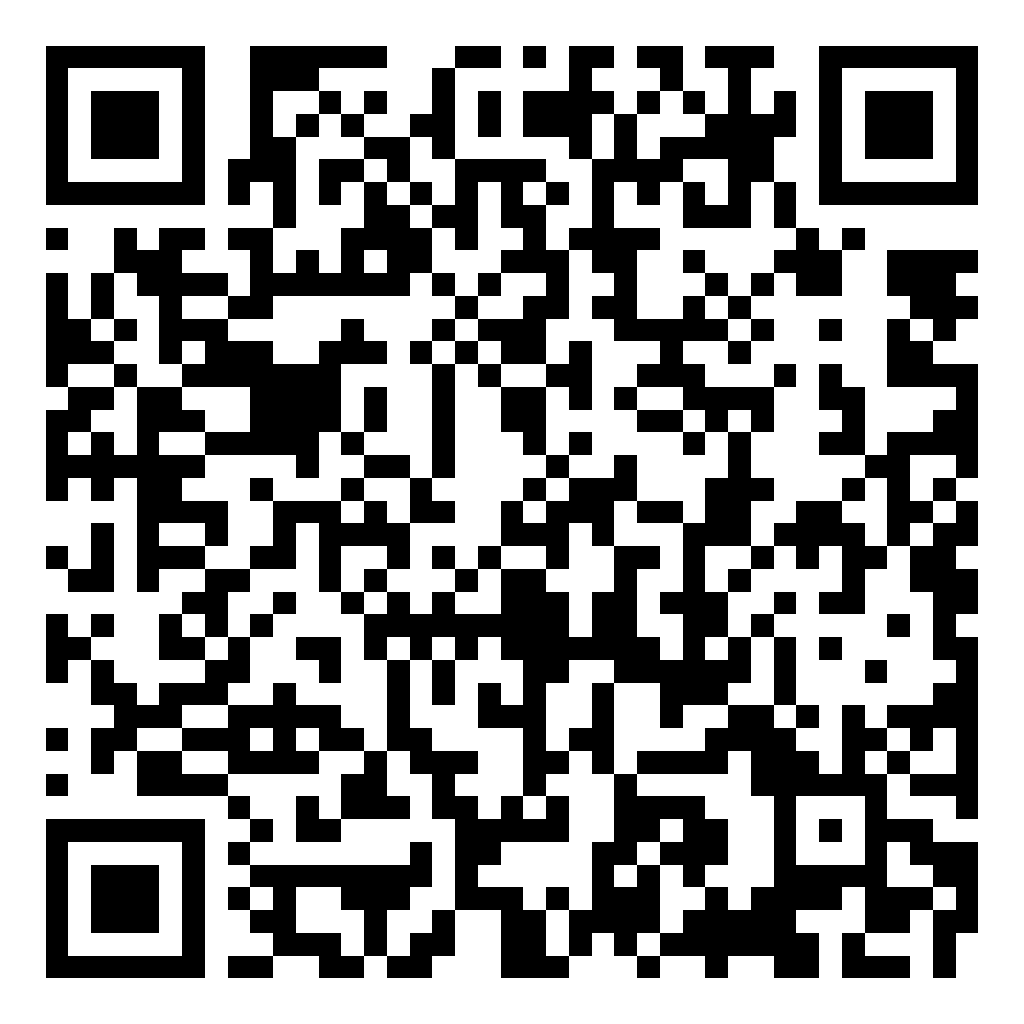
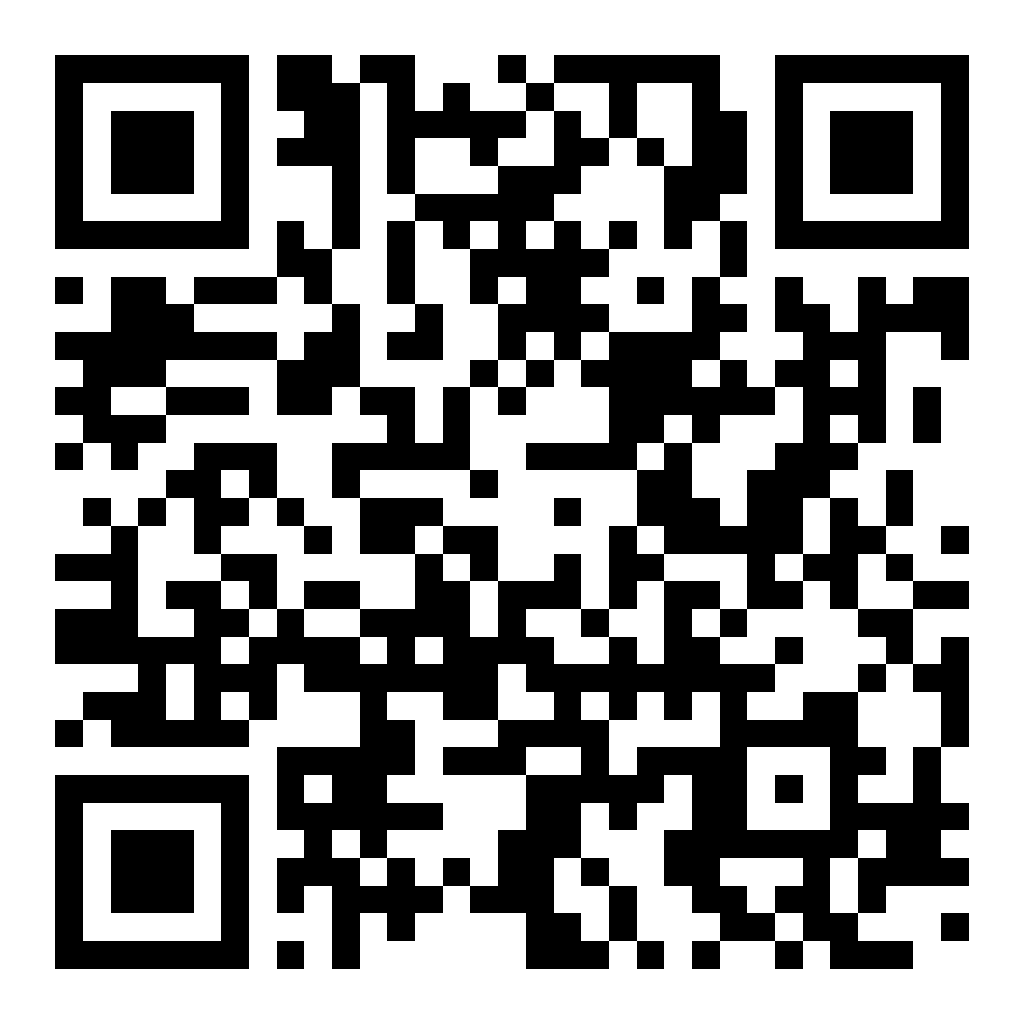
fix(canteen): point Pin Me QR codes at takeout entry
Shared table/1 links expose the all-share dine-in cart; takeout URLs open a fresh store session instead.

diff --git a/scripts/regen-canteen-qr.py b/scripts/regen-canteen-qr.py
@@ -1,0 +1,46 @@
+"""Regenerate Pin Me canteen QR codes as takeout links (no shared table).
+
+Usage:
+  python scripts/regen-canteen-qr.py
+"""
+
+from __future__ import annotations
+
+from pathlib import Path
+
+import qrcode
+from PIL import Image
+from pyzbar.pyzbar import decode
+
+ROOT = Path(__file__).resolve().parents[1]
+OUT_DIR = ROOT / "public" / "assets" / "canteen-qr"
+
+# /store/{id}/table/1 + all_share_table shares one cart across scanners.
+# Takeout entry lands on store home without table binding.
+TARGETS = {
+    "ws-can": "https://meal.pin2eat.com/store/4898/takeout",
+    "uc-can": "https://meal.pin2eat.com/store/5198/takeout",
+    "na-can": "https://meal.pin2eat.com/store/5500/takeout",
+}
+
+
+def main() -> None:
+    for name, url in TARGETS.items():
+        qr = qrcode.QRCode(
+            version=None,
+            error_correction=qrcode.constants.ERROR_CORRECT_M,
+            box_size=16,
+            border=2,
+        )
+        qr.add_data(url)
+        qr.make(fit=True)
+        img = qr.make_image(fill_color="black", back_color="white").convert("RGB")
+        img = img.resize((1024, 1024), Image.Resampling.NEAREST)
+        path = OUT_DIR / f"{name}.png"
+        img.save(path, format="PNG", optimize=True)
+        decoded = [d.data.decode() for d in decode(Image.open(path))]
+        print(f"{name}: {path.name} -> {decoded}")
+
+
+if __name__ == "__main__":
+    main()

diff --git a/public/assets/canteen-qr/README.md b/public/assets/canteen-qr/README.md
@@ -10,3 +10,19 @@ public/assets/canteen-qr/<canteen-id>.png
 Also accepted: `.webp`, `.jpg`, `.jpeg`, `.svg`.
 
 Launcher icons: `public/assets/canteen-icons/` with the same naming.
+
+## Pin Me ordering links
+
+Pin Me stores here use `all_share_table=1`. A QR that encodes
+`/store/{id}/table/1` (or `table_name=1`) joins the shared dine-in cart, so
+browsers can show dishes other people already ordered.
+
+For website “扫码下单” assets, encode the **takeout** entry instead (no table):
+
+```text
+https://meal.pin2eat.com/store/4898/takeout   # ws-can
+https://meal.pin2eat.com/store/5198/takeout   # uc-can
+https://meal.pin2eat.com/store/5500/takeout   # na-can
+```
+
+Regenerate with `python scripts/regen-canteen-qr.py` if those PNGs need refreshing.
